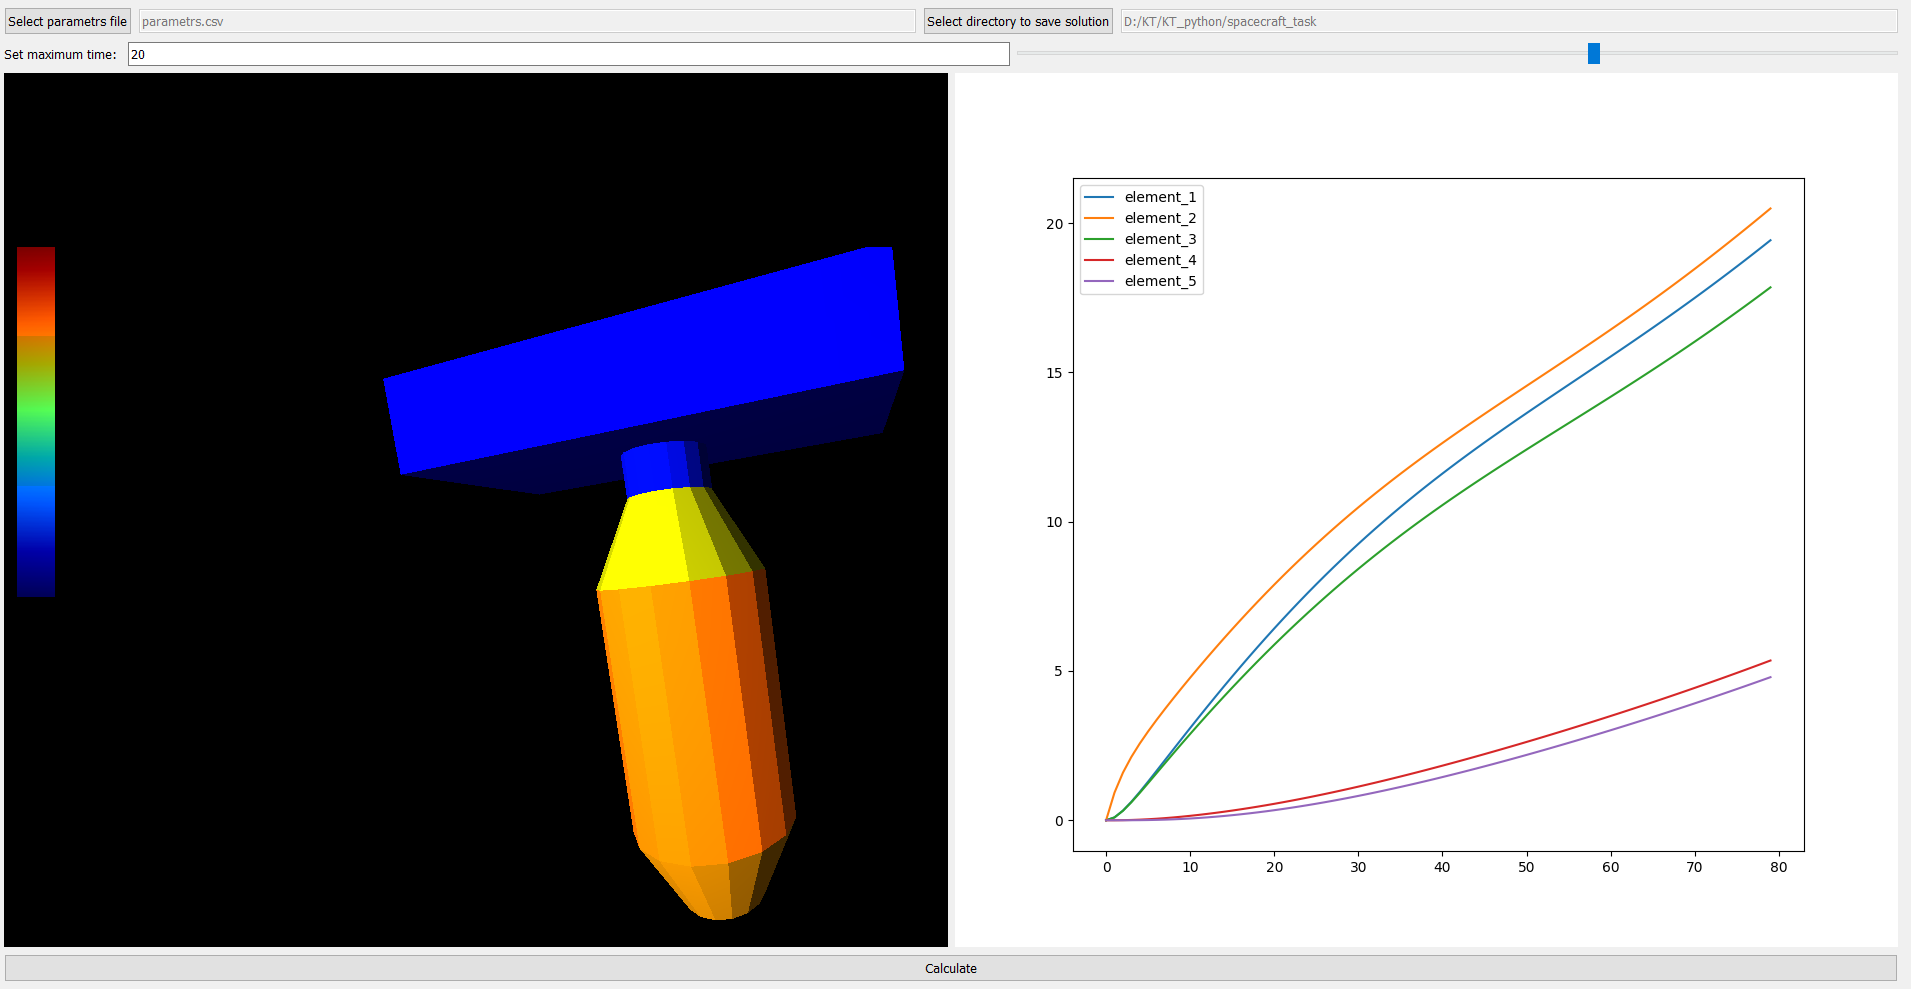
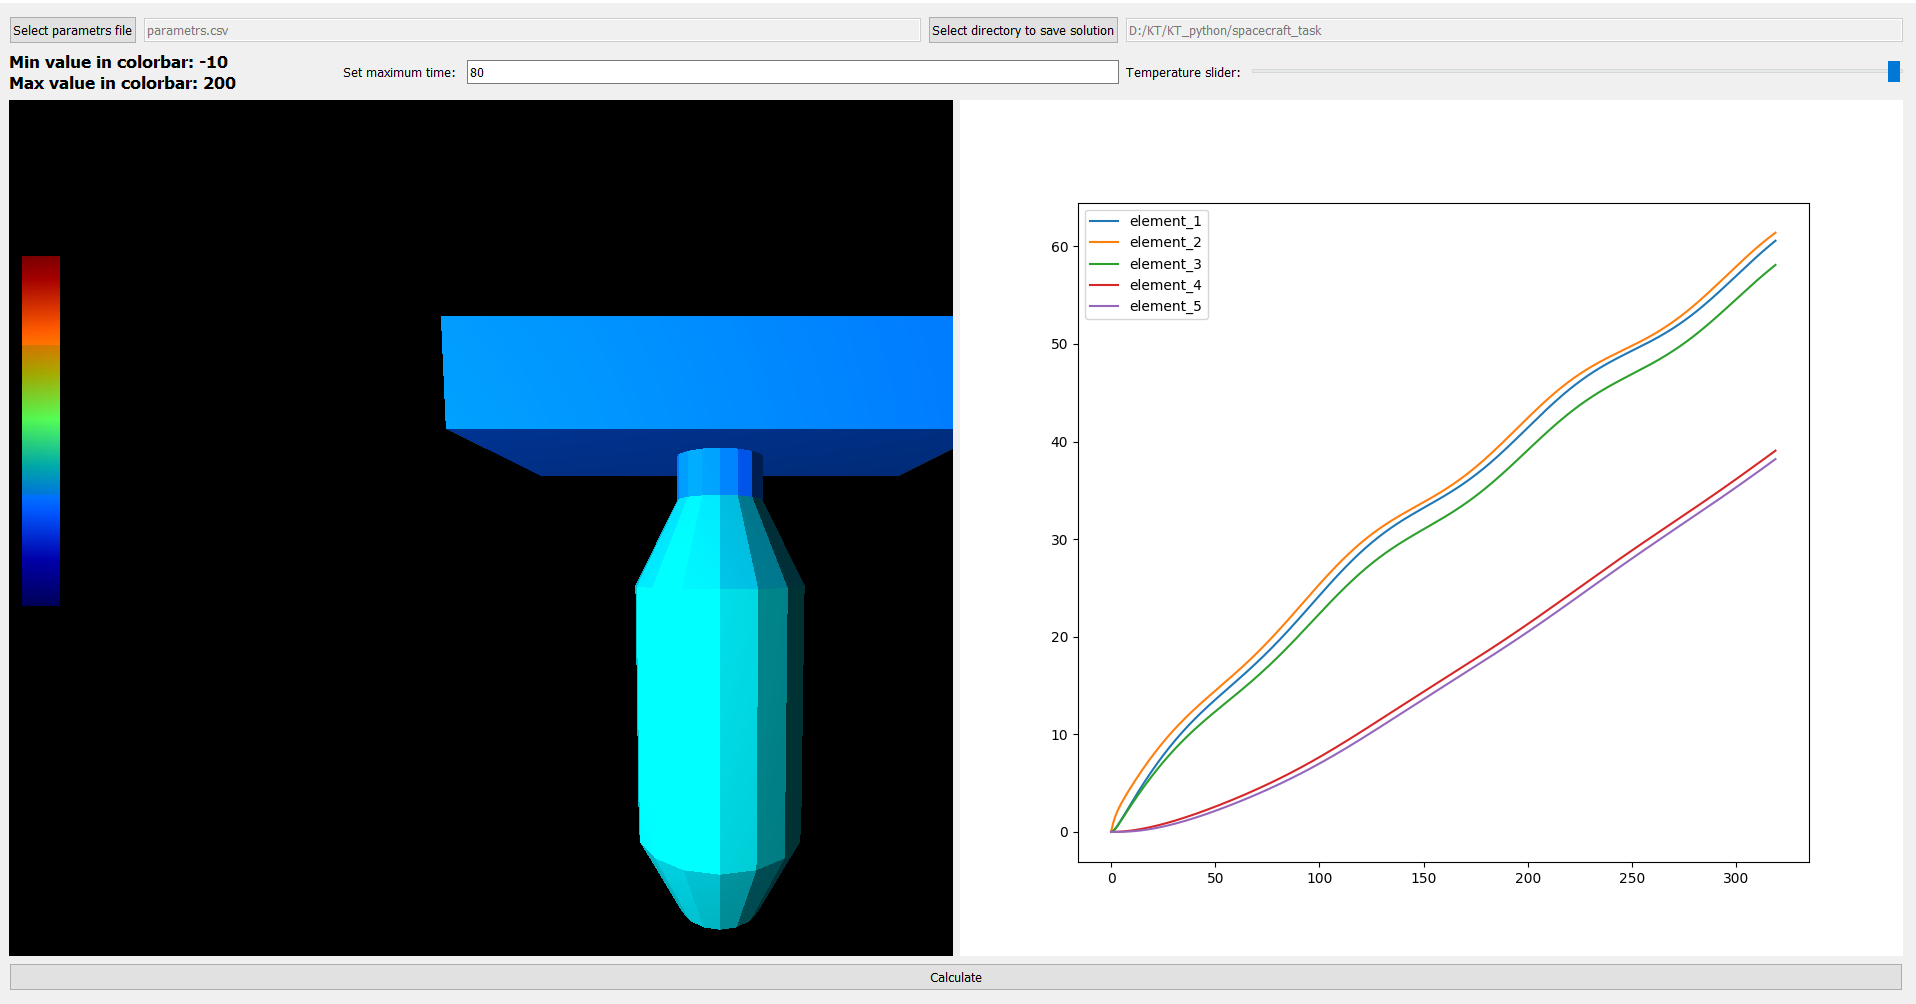
add new widget with min and max temp in colorbar

diff --git a/spacecraft_task/HeatBalanceSolver.py b/spacecraft_task/HeatBalanceSolver.py
@@ -1,5 +1,5 @@
 import pandas as pd
-from scipy.integrate import odeint
+from scipy.integrate import odeint, solve_ivp
 import numpy as np
 from scipy.optimize import fsolve
 
@@ -45,7 +45,7 @@ class HeatBalanceSolver():
 
         self.A = np.array(parametrs_df['A'], dtype=np.float32)
 
-    def _stationary_equation(self, T):
+    def _stationary_equation(self, T, t):
         equations = []
         for i in range(self.amount_elemnts):
             tmp_eq = 0
@@ -53,7 +53,7 @@ class HeatBalanceSolver():
                 k = self.lambdas[i, j] * self.area_btw_surfaces[i, j]
                 tmp_eq += k * (T[j] - T[i])
             q_e = -self.epsilon[i] * self.surfaces_area[i] * self.c_0 * ((T[i] / 100) ** 4)
-            tmp_eq += q_e
+            tmp_eq += q_e + self.A[i] * (20 + 3 * np.cos(t/4))
             equations.append(tmp_eq / self.c[i])
         return equations
 
@@ -64,7 +64,8 @@ class HeatBalanceSolver():
         Returns:
             numpy array containing solution by scipy.fsolve
         '''
-        return fsolve(self._stationary_equation, np.zeros(self.amount_elemnts))
+        #return fsolve(self._stationary_equation, np.zeros(self.amount_elemnts))
+        return fsolve(self._stationary_equation, np.zeros(self.amount_elemnts), args=(0.0))
     
     def save_solution(self, solution, time):
         '''
@@ -97,7 +98,9 @@ class HeatBalanceSolver():
         '''
         N = t1*4
         t = np.linspace(t0, t1, N)
-        init_cond = self.get_stationary_solution()
+        init_cond = np.zeros(5)#self.get_stationary_solution()
+        #solution_class = solve_ivp(self._equation, t, init_cond, dense_output=True)
+        #sol = solution_class.sol(t).T
         sol = odeint(self._equation, init_cond, t)
         self.save_solution(sol, t)
         return sol

diff --git a/spacecraft_task/GL_Widget.py b/spacecraft_task/GL_Widget.py
@@ -2,6 +2,7 @@ from OpenGL.GL import *
 from OpenGL.GLU import *
 from PyQt5.QtOpenGL import *
 from PyQt5.QtCore import Qt, pyqtSignal
+import OpenGL.GLUT as glut
 import numpy as np
 class GL_Widget(QGLWidget):
     xRotationChanged = pyqtSignal(int)
@@ -23,13 +24,12 @@ class GL_Widget(QGLWidget):
         glClear(GL_COLOR_BUFFER_BIT | GL_DEPTH_BUFFER_BIT)
         glLoadIdentity()
 
-  
         if self.temperature is not None:
             #draw color bar
             glBegin(GL_QUADS)
             x = -5.5
             y = 0
-            max_temp_range = self.max_temp.astype(np.int32) + abs(self.min_temp.astype(np.int32))
+            max_temp_range = self.max_temp + abs(self.min_temp)
             for temp in np.arange(0, max_temp_range, max_temp_range/300):
                 glColor3f(self._colormap_red(temp/max_temp_range), self._colormap_green(temp/max_temp_range), self._colormap_blue(temp/max_temp_range))
                 glVertex3f(x, 0, -4)
@@ -150,7 +150,7 @@ class GL_Widget(QGLWidget):
  
     def setTemperature(self, temp):
         self.temperature = temp
-        self.max_temp = np.max(self.temperature)
-        self.min_temp = np.min(self.temperature)
+        self.max_temp = 200#np.max(self.temperature)
+        self.min_temp = -20#np.min(self.temperature)
         self.color = (self.temperature[0] - self.min_temp) / (self.max_temp - self.min_temp)
         self.update()

diff --git a/spacecraft_task/UI_MainWindow.py b/spacecraft_task/UI_MainWindow.py
@@ -46,6 +46,13 @@ class Ui_MainWindow(QtWidgets.QWidget):
 
 
         slider_layout = QtWidgets.QHBoxLayout()
+        self.colorbar_txt =  QtWidgets.QLabel()
+        self.colorbar_txt.setFont(QtGui.QFont("Times", 10, QtGui.QFont.Bold))
+        self.colorbar_txt.setText('Min value in colorbar: -10 \nMax value in colorbar: 200')
+        slider_layout.addWidget(self.colorbar_txt)
+
+        self.spacer = QtWidgets.QSpacerItem(100, 0, QtWidgets.QSizePolicy.Minimum, QtWidgets.QSizePolicy.Fixed)
+        slider_layout.addItem(self.spacer)
 
         self.time_txt =  QtWidgets.QLabel()
         self.time_txt.setText('Set maximum time: ')
@@ -55,6 +62,14 @@ class Ui_MainWindow(QtWidgets.QWidget):
         self.time_value_txt = QtWidgets.QLineEdit()
         slider_layout.addWidget(self.time_value_txt)
         self.time_value_txt.setText('20')
+
+        
+
+        self.slider_txt =  QtWidgets.QLabel()
+        self.slider_txt.setText('Temperature slider: ')
+        slider_layout.addWidget(self.slider_txt)
+
+        
 
         self.slider = QtWidgets.QSlider(Qt.Horizontal, self)
         self.slider.valueChanged.connect(lambda val: self.glWidget.setTempSlider(val))
